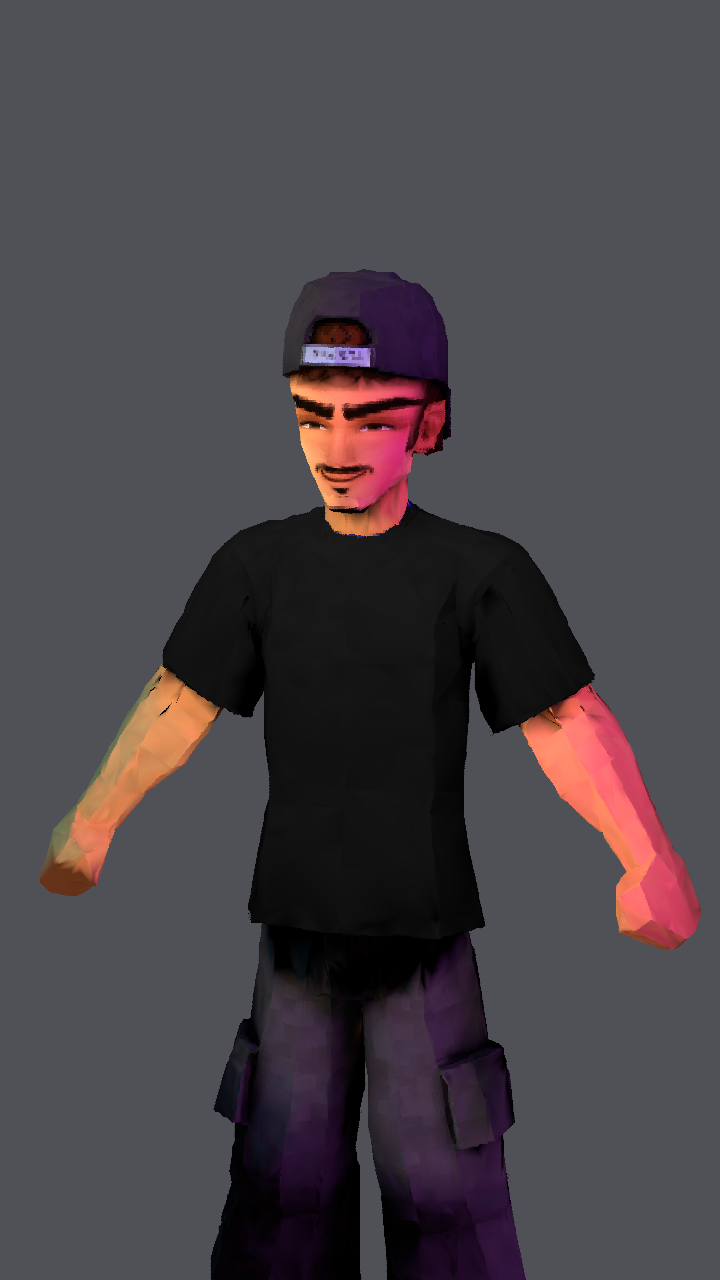
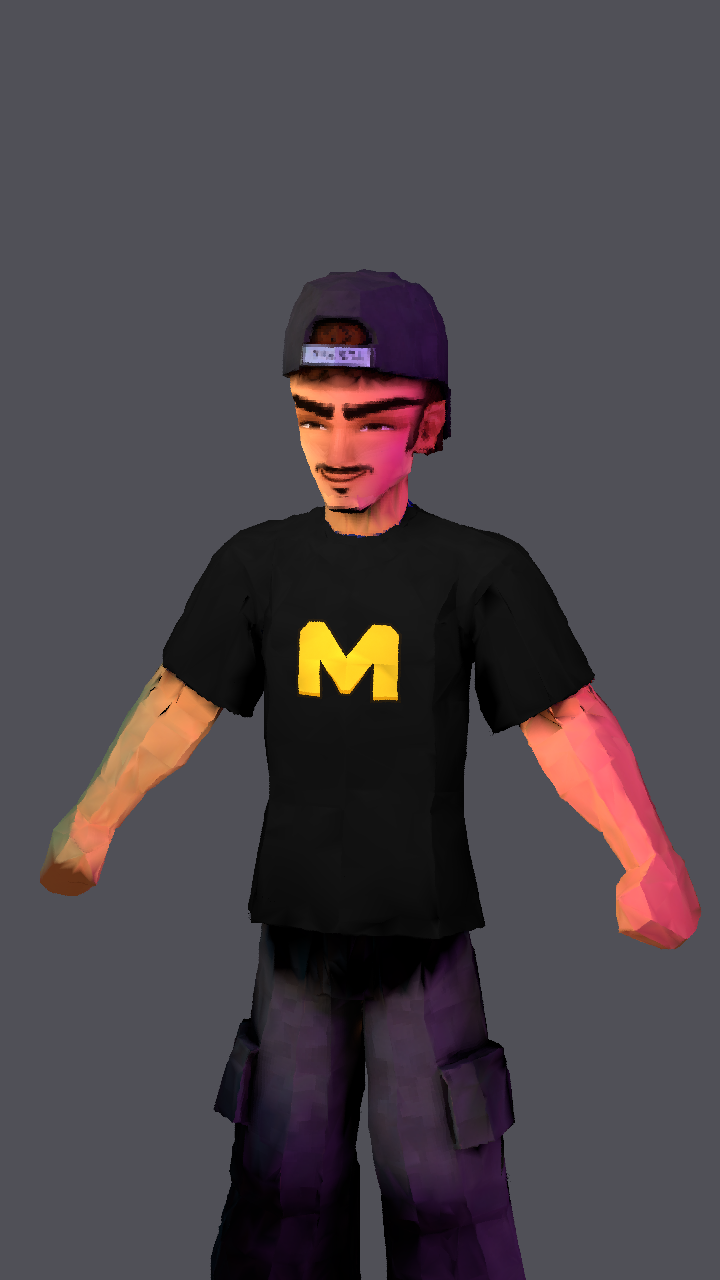
Print the approved yellow Massacote M on Dery black shirt

Changed region(s): [[0.3972, 0.4688, 0.5806, 0.5625]]

diff --git a/assets/personagens/dery/roupas/camiseta_preta/aplicar.py b/assets/personagens/dery/roupas/camiseta_preta/aplicar.py
@@ -1,12 +1,13 @@
-"""Replace the original sports jersey with a plain black T-shirt, without altering geometry."""
+"""Black shirt with the approved yellow M print; original geometry is unchanged."""
+from pathlib import Path
 import bpy
 from mathutils import Vector
 
 def aplicar(avatar):
-    if avatar.get('DeryWardrobe')=='camiseta_preta_textura_v2':return avatar.get('DeryWardrobeFaces',0)
+    if avatar.get('DeryWardrobe')=='camiseta_preta_logo_v3':return avatar.get('DeryWardrobeFaces',0)
     mesh=avatar.data
-    if mesh.get('DeryWardrobe')=='camiseta_preta_textura_v2':
-        avatar['DeryWardrobe']='camiseta_preta_textura_v2'
+    if mesh.get('DeryWardrobe')=='camiseta_preta_logo_v3':
+        avatar['DeryWardrobe']='camiseta_preta_logo_v3'
         return mesh.get('DeryWardrobeFaces',0)
     source=next(n.image for m in mesh.materials if m and m.use_nodes for n in m.node_tree.nodes if n.type=='TEX_IMAGE'and n.image and 'Diffuse'in n.image.name)
     width,height=source.size;pixels=list(source.pixels[:]);uv=mesh.uv_layers.get('UVMap')or mesh.uv_layers[0]
@@ -30,7 +31,19 @@ def aplicar(avatar):
             selected.append(poly.index)
     assert len(selected)>500, len(selected)
 
-    m=bpy.data.materials.new('DERY | camiseta preta lisa');m.use_nodes=True
+    original_uv=uv.name
+    mesh.uv_layers.get('DeryLogoChest')or mesh.uv_layers.new(name='DeryLogoChest')
+    mesh.color_attributes.get('DeryLogoFront')or mesh.color_attributes.new(name='DeryLogoFront',type='FLOAT_COLOR',domain='CORNER')
+    print_uv=mesh.uv_layers['DeryLogoChest'];front=mesh.color_attributes['DeryLogoFront']
+    for loop in mesh.loops:
+        p=mesh.vertices[loop.vertex_index].co
+        print_uv.data[loop.index].uv=(p.x/.18+.5,(p.z-1.25)/.18+.5)
+        mask=max(0,min(1,(-p.y-.015)/.045))
+        front.data[loop.index].color=(mask,mask,mask,1)
+    mesh.uv_layers[original_uv].active_render=True
+    mesh.uv_layers.active=mesh.uv_layers[original_uv]
+
+    m=bpy.data.materials.new('DERY | camiseta preta com M amarelo');m.use_nodes=True
     nt=m.node_tree;nt.nodes.clear()
     out=nt.nodes.new('ShaderNodeOutputMaterial');emit=nt.nodes.new('ShaderNodeEmission')
     attr=nt.nodes.new('ShaderNodeVertexColor');attr.layer_name='PS1Lighting'
@@ -39,11 +52,19 @@ def aplicar(avatar):
     shade=nt.nodes.new('ShaderNodeMath');shade.operation='MULTIPLY_ADD';shade.inputs[1].default_value=.25;shade.inputs[2].default_value=.82;nt.links.new(dot.outputs['Value'],shade.inputs[0])
     level=nt.nodes.new('ShaderNodeMath');level.operation='MULTIPLY';nt.links.new(gray.outputs[0],level.inputs[0]);nt.links.new(shade.outputs[0],level.inputs[1])
     mix=nt.nodes.new('ShaderNodeMixRGB');mix.blend_type='MULTIPLY';mix.inputs[0].default_value=1;mix.inputs[1].default_value=(.006,.006,.006,1);nt.links.new(level.outputs[0],mix.inputs[2]);nt.links.new(mix.outputs[0],emit.inputs['Color']);nt.links.new(emit.outputs[0],out.inputs['Surface'])
+    logo=nt.nodes.new('ShaderNodeTexImage');logo.name='MASSACOTE | approved M print'
+    logo.image=bpy.data.images.load(str(Path(__file__).resolve().parents[4]/'marca/massacote-games/logo.png'),check_existing=True)
+    logo.interpolation='Closest';logo.extension='CLIP'
+    coordinates=nt.nodes.new('ShaderNodeUVMap');coordinates.uv_map='DeryLogoChest';nt.links.new(coordinates.outputs[0],logo.inputs['Vector'])
+    front_node=nt.nodes.new('ShaderNodeVertexColor');front_node.layer_name='DeryLogoFront'
+    alpha=nt.nodes.new('ShaderNodeMath');alpha.operation='MULTIPLY';nt.links.new(logo.outputs['Alpha'],alpha.inputs[0]);nt.links.new(front_node.outputs['Color'],alpha.inputs[1])
+    ink=nt.nodes.new('ShaderNodeMixRGB');ink.blend_type='MULTIPLY';ink.inputs[0].default_value=1;nt.links.new(logo.outputs['Color'],ink.inputs[1]);nt.links.new(level.outputs[0],ink.inputs[2])
+    composite=nt.nodes.new('ShaderNodeMixRGB');nt.links.new(alpha.outputs[0],composite.inputs[0]);nt.links.new(mix.outputs[0],composite.inputs[1]);nt.links.new(ink.outputs[0],composite.inputs[2]);nt.links.new(composite.outputs[0],emit.inputs['Color'])
     index=len(mesh.materials);mesh.materials.append(m)
     for i in selected:mesh.polygons[i].material_index=index
 
-    avatar['DeryWardrobe']='camiseta_preta_textura_v2'
+    avatar['DeryWardrobe']='camiseta_preta_logo_v3'
     avatar['DeryWardrobeFaces']=len(selected)
-    mesh['DeryWardrobe']='camiseta_preta_textura_v2'
+    mesh['DeryWardrobe']='camiseta_preta_logo_v3'
     mesh['DeryWardrobeFaces']=len(selected)
     return len(selected)

diff --git a/assets/personagens/dery/roupas/camiseta_preta/preparar_modelo.py b/assets/personagens/dery/roupas/camiseta_preta/preparar_modelo.py
@@ -38,7 +38,7 @@ s.render.resolution_x=720;s.render.resolution_y=1280;s.render.resolution_percent
 s.render.engine='CYCLES';s.cycles.samples=2;s.cycles.use_denoising=False;s.render.threads_mode='FIXED';s.render.threads=4;s.render.dither_intensity=0;s.view_settings.view_transform='Standard';s.view_settings.look='None'
 geometry_error=max(((v.co-old).length for v,old in zip(a.data.vertices,original)),default=0)
 assert geometry_error==0,geometry_error
-report={'garment_faces':count,'geometry_changed':False,'max_vertex_displacement_m':geometry_error,'shirt_material':'Plain neutral black, no stripes or logo','fit':'Original garment shape, body proportions and sleeves preserved','face':'Original 31 PNG expression system and seam-safe precision retained','source':'Original model and textures preserved unchanged'}
+report={'garment_faces':count,'geometry_changed':False,'max_vertex_displacement_m':geometry_error,'shirt_material':'Neutral black with the approved yellow Massacote Games M on the front chest','logo_source':'assets/marca/massacote-games/logo.png','logo_projection':{'center_rest':[0,1.25],'canvas_width_m':.18,'front_only':True,'method':'Additional UV layer; print follows the rigged shirt without extra geometry'},'fit':'Original garment shape, body proportions and sleeves preserved','face':'Original 31 PNG expression system and seam-safe precision retained','source':'Original model and textures preserved unchanged'}
 (HERE/'modelo.json').write_text(json.dumps(report,ensure_ascii=False,indent=2)+'\n')
 bpy.data.orphans_purge(do_recursive=True);bpy.ops.file.pack_all();s.render.filepath='//previa.png'
 bpy.ops.wm.save_as_mainfile(filepath=str(HERE/'Dery_Camiseta_Preta.blend'),compress=True)

diff --git a/assets/personagens/dery/roupas/camiseta_preta/README.md b/assets/personagens/dery/roupas/camiseta_preta/README.md
@@ -1,6 +1,6 @@
-# Dery — camiseta preta lisa
+# Dery — camiseta preta com M amarelo
 
-Roupa atual do personagem: camiseta toda preta, sem faixas ou símbolo, **com a geometria e o caimento originais**. A correção do pedido altera somente o material da roupa.
+Roupa atual do personagem: camiseta preta, sem faixas, com o **M amarelo aprovado do Massacote Games no centro do peito**. A geometria e o caimento originais permanecem preservados; a mudança é somente no material e na projeção da estampa.
 
 - [Modelo Blender com rig e expressões PNG](Dery_Camiseta_Preta.blend).
 - [Prévia renderizada no próprio modelo](previa.png).
@@ -8,6 +8,6 @@ Roupa atual do personagem: camiseta toda preta, sem faixas ou símbolo, **com a 
 - [Reconstruir o arquivo e a prévia](preparar_modelo.py).
 - [Verificação de geometria inalterada](modelo.json).
 
-O modelo original, as proporções, as mangas, o rosto e os UVs ficam preservados. O material preto substitui a aparência azul/branca somente nos polígonos da camiseta. O GLB e as texturas enviados pelo usuário permanecem nos caminhos originais.
+O modelo original, as proporções, as mangas, o rosto e os UVs existentes ficam preservados. O material preto substitui a aparência azul/branca somente nos polígonos da camiseta. A estampa usa [a logo original](../../../../marca/massacote-games/logo.png), projetada numa UV adicional na frente do peito. Ela acompanha a deformação da roupa pela rig, sem plano solto ou geometria adicional. O GLB e as texturas enviados pelo usuário permanecem nos caminhos originais.
 
 Para próximos shorts que reutilizem uma cena antiga, importar `aplicar` deste diretório e chamar `aplicar(avatar)` em cada modelo do Dery. O procedimento altera os materiais e não move vértices ou shape keys. O arquivo autônomo mantém a biblioteca de 31 rostos e a precisão PS1 sem fissuras.

diff --git a/AGENTS.md b/AGENTS.md
@@ -8,7 +8,7 @@
 - Planejar a animação por trechos da fala antes de receber a voz. Texto digitado pelo usuário não significa áudio gravado; sincronismo e timecodes finais dependem da gravação.
 - Preservar a correção dos riscos/rachaduras do rosto: usar `assets/personagens/dery/ps1_precision.py` nos próximos renders, evitando deslocamentos diferentes em vértices coincidentes. Conferir em close as trocas de expressão e a virada de cabeça, mantendo PNGs com troca seca e o visual PS1. A correção e a validação inicial estão no episódio 006.
 - Mantenha modelos e outros ativos reutilizáveis em `assets/`; preserve os arquivos originais do usuário.
-- A camiseta atual do Dery é toda preta, sem faixas ou símbolo. Alterar somente a aparência/material, preservando a geometria, o corpo e as mangas originais, conforme a correção do usuário. Usar `assets/personagens/dery/roupas/camiseta_preta/aplicar.py` ao reutilizar cenas antigas.
+- A camiseta atual do Dery é preta, sem faixas, com o M amarelo aprovado do Massacote Games no centro do peito. Alterar somente a aparência/material, preservando a geometria, o corpo e as mangas originais. Usar `assets/personagens/dery/roupas/camiseta_preta/aplicar.py` ao reutilizar cenas antigas.
 - Roteiro, gravação de voz e animação seguem a ordem combinada com o usuário. Ajuste os cortes à gravação real.
 - Versione roteiros, scripts, voz, texturas, expressões, projeto Blender e vídeos finais. Não versione renders intermediários, backups ou ZIPs duplicados.
 - Use Git LFS conforme `.gitattributes` para arquivos binários grandes.

diff --git a/shorts/007-verdadeiro-chefe-driver/README.md b/shorts/007-verdadeiro-chefe-driver/README.md
@@ -15,4 +15,4 @@ O teste obrigatório citado se refere ao acesso à campanha; não significa que 
 
 Usar a correção compartilhada do rosto do episódio 006, a biblioteca de 31 PNGs com troca seca e o modelo original do Dery. Voz, modelos novos, gameplay e renderização ficam para a etapa solicitada pelo usuário.
 
-A roupa atual do Dery é a [camiseta preta lisa](../../assets/personagens/dery/roupas/camiseta_preta/), com corte original e alteração somente do material.
+A roupa atual do Dery é a [camiseta preta com M amarelo do Massacote Games](../../assets/personagens/dery/roupas/camiseta_preta/), com corte original e alteração somente do material.

diff --git a/assets/personagens/dery/README.md b/assets/personagens/dery/README.md
@@ -2,7 +2,7 @@
 
 Modelo e texturas originais enviados pelo usuário para uso nos shorts.
 
-**Roupa atual:** [camiseta preta lisa, mantendo o corte e a geometria originais](roupas/camiseta_preta/). Aplicar a troca de material ao reutilizar cenas antigas.
+**Roupa atual:** [camiseta preta com M amarelo do Massacote Games no peito](roupas/camiseta_preta/), mantendo o corte e a geometria originais. Aplicar a troca de material ao reutilizar cenas antigas.
 
 - `Dery.glb`: corpo, cabeça e rig de 72 ossos; inclui 23 ações.
 - `Dery_Material_Diffuse.png`: textura de cor original.
